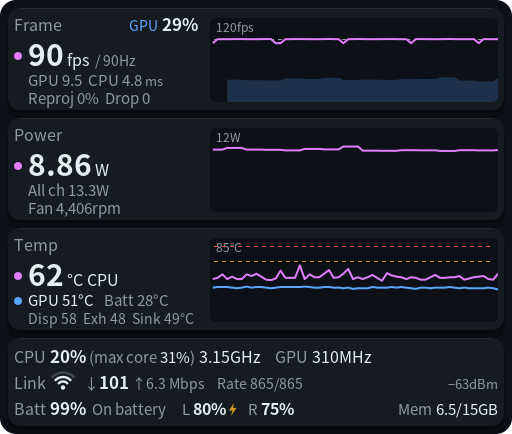
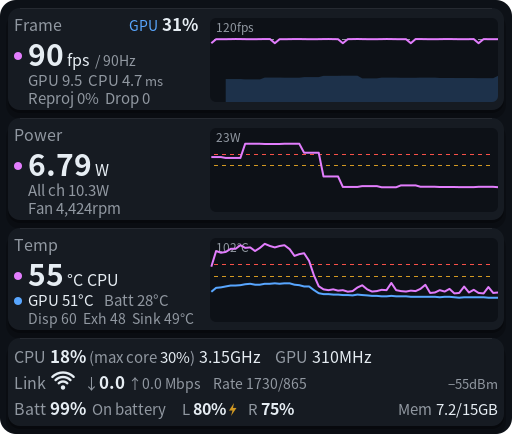
v0.2.0 のリリース準備: README・CHANGELOG・画像を今の動きに合わせる
- README（日英）の更新の説明を今の動きに合わせた: 帯は見出しの右、版は数字だけ、各状態の見え方、
  確かめるタイミング（起動時と 24 時間に 1 回まで・失敗時は 1 時間後）、update_check で止まるのは自動確認だけ、
  SHA256SUMS で照らし合わせること（署名ではないこと）、失敗しても今の版のまま、別ユニット
  frame-perf-overlay-update とログの場所、入るものは install.sh と同じ、v0.1.0 からは一度手で上げること
- インストールで入るもの（frame-update.sh・install-args）、--uninstall で残るもの、プライバシー・免責事項の
  「書き込むもの」を今のコードに合わせた
- README の画像（性能パネル・警告の色・設定パネル、日英）を今の見た目で撮り直した
- CHANGELOG の 0.2.0 に日付を入れ、全体を見直した（更新の仕組み・向き・設定パネル・Wi-Fi・修正）
- install.sh: ロックファイルの PID のプロセスがもういないと途中で止まっていたのを直した
  （--uninstall がいつも何も消せていなかった）。--uninstall で frame-update.sh も消す

diff --git a/CHANGELOG.md b/CHANGELOG.md
@@ -1,29 +1,47 @@
 # 変更履歴
 
-## 0.2.0
+## 0.2.0 — 2026-09-27
 
-### 更新
+### 更新の仕組み（新しく足した）
 
-- ダッシュボードの見出しの行（見出しとパネルの状態の間）に、新しい版の確認の帯を足した。今の版をいつも表示し（例:「最新版です（0.2.0）」）、［確認］でキャッシュを無視してその場で GitHub に確かめに行く（`update_check` の設定が off でも押せる）。新しい版があれば［更新］が出て、「0.2.1 に更新しますか？」の確認を 1 回はさんでからインストールする。進み具合（ダウンロード中・確認中・展開中・入れ替え中）と、失敗したときの理由・やり直しもここに出す
-- 帯の見た目は Steam Frame 用アプリ共通の見本に合わせた: 新しい版があるとき・確認のときはピンクの枠と太字の文言（新しい版はピンクの文字）で、［更新する］は強調ボタン（ピンクの塗り）。並びは［今すぐ確かめる］［更新する］。更新に失敗したときは赤い枠と太字の赤い文言。新しい版を確かめられなかったとき（オフラインなど）は、枠は普通のまま文言だけ赤。更新中は右に「ダウンロードして入れ替えます。途中でこの画面が閉じて開き直すことがあります」を小さく出す
-- 設定に `update_check`（既定 `true`）を足した。off にしても止まるのは 1 日 1 回の自動確認だけで、［確認］［更新］ボタンはそのまま使える
-- Steam Frame 用アプリ共通の更新の仕組み（非公開の frame-updater リポジトリ）を `vendor/frame-updater/` に取り込んだ。`frame-update.sh`（GitHub の最新リリースを確かめ、`SHA256SUMS` でハッシュを確かめてからインストールする POSIX sh）と、それを裏で動かす C++ の部品（`update_check.{h,cpp}`）
-- `install.sh` は `frame-update.sh` を `~/.local/share/frame-perf-overlay/` に置き、そのときのオプション（`--no-autostart` があれば）を `~/.config/frame-perf-overlay/install-args` に書き残す（次回の自動更新が同じオプションで `install.sh` を呼べるように）
+- パネルから新しい版を確かめて入れられるようにした。設定パネルの見出しの右（見出しの行の中）の帯に、今の版をいつも出す（例:「最新版です（0.2.0）」。版は v なしの数字だけ）。［今すぐ確かめる］で、キャッシュを飛ばしてその場で GitHub に確かめる
+- 新しい版があれば「新しい版 0.2.1 があります」と［今すぐ確かめる］［更新する］を出し、「0.2.1 に更新しますか？」の確認（［やめる］［更新する］）を 1 回はさんでからインストールする。進み具合（ダウンロード中・確認中・展開中・入れ替え中）、入れ終わった知らせ、失敗したときの理由と［もう一度］［閉じる］も同じ帯に出す。「入れました」は、そのプロセスが動いている間は出し続ける
+- 帯の見た目は Steam Frame 用アプリ共通の見本に合わせた: 新しい版があるとき・確認のときはピンクの枠と太字の文言（新しい版はピンクの文字）、［更新する］はピンク塗りの強調ボタン。更新に失敗したときは赤い枠と太字の赤い文言。確かめられなかったとき（オフラインなど）は枠は普通のまま文字だけ赤。更新中は右に「ダウンロードして入れ替えます。途中でこの画面が閉じて開き直すことがあります」を小さく出す。文言は共通の strings.md に合わせた（「最新版です」「もう最新版です」など）
+- 自動確認は起動時と、そのあとは 24 時間に 1 回まで GitHub に問い合わせる（前回の答えを使い回す。確かめられなかったときは 1 時間後）。設定に `update_check`（既定 `true`）を足した。`false` で止まるのは自動確認だけで、［今すぐ確かめる］［更新する］はそのまま使える
+- インストールは、リリースに添付した `SHA256SUMS` で tar.gz を照らし合わせてから展開し、そのリリースの `install.sh` を前回と同じオプションで動かす。`SHA256SUMS` が無い・合わないリリースは入れない（無いときは「ここからは入れられない版です」と案内する）。失敗しても今の版のまま動き続ける。インストールは一時的な systemd のユーザーユニット `frame-perf-overlay-update` で動くので、パネルが再起動しても続く。ログは `~/.cache/frame-perf-overlay/update.log`
+- Steam Frame 用アプリ共通の更新の仕組み（非公開の frame-updater リポジトリ、93a5f1b）を `vendor/frame-updater/` に取り込んだ。`frame-update.sh`（POSIX sh）と、それを裏で動かす C++ の部品（`update_check.{h,cpp}`）
+- `install.sh` は `frame-update.sh` を `~/.local/share/frame-perf-overlay/` に置き、そのときのオプション（`--no-autostart` があれば）を `~/.config/frame-perf-overlay/install-args` に書き残す（次の自動更新が同じオプションで `install.sh` を呼べるように）。`--uninstall` は `frame-update.sh` も消す
 - `scripts/package.sh` は最初に `vendor/frame-updater/` が手で書き換えられていないか確かめ、リリースの tar.gz に `frame-update.sh` を入れ、隣に `SHA256SUMS` を書き出す。公開に使う `gh release create` の行を最後に表示する（実行はしない）
-- `--dump-settings-png` に `--preview-update`（uptodate / checking / available / manual / confirm / installing / installed / checkfailed / installfailed）を足し、更新の帯の見た目を SteamVR なしで確認できるようにした
+- v0.1.0 には更新の仕組みが無いので、v0.1.0 から 0.2.0 へは一度だけ手で `./install.sh` する必要がある
 
-### 設定・操作
+### 向き（新しく足した）
 
-- 性能パネルを回転できるようにした。設定ファイルの `rotation`（`yaw` / `pitch` / `roll`、度）で、左右の向き・上下の傾き・画面内の回転を決める。既定は全部 0（今までと同じ、顔の正面と平行）。範囲外の値は丸め（±180 / ±90 / ±180）、知らないキーはログで知らせる。
-- ダッシュボードの「Perf」タブに「向き」のカードを足した: 左右・上下の向きと、画面内の回転（「左に回す / 右に回す」、roll。面を見て反時計回り / 時計回り）。どれも「1° ずつ / 5° ずつ」で 1 回に動く量を切り替え、その刻みの目盛りにそろえる（刻みは保存せず、起動するたびに 1°）。「自分に向ける」（位置はそのままで面を頭へ向ける。roll は今の値のまま残す）、「正面向き」（回転なし。roll も 0）。今の向きの値（左右・上下・回転）を見出しの右に出す。設定パネルは 1600×690 になった（横に長くして縦を詰めた: 見出しの行に新しい版の確認の帯を入れ、パネル・位置・向きのカードを横に 3 つ並べた。1px あたりの大きさは前と同じ）。
-- 位置のボタン（左上・右下など）を押すと、その位置で自動的に自分に向ける。微調整（上下左右・近く / 遠く）では向きを変えない。
-- 「既定に戻す」で向きも既定（回転なし）に戻す。
-- `--verbose` のとき、向きを変えるたびに、SteamVR が計算したパネルの向き（光線の当たり）と、こちらで計算した向きをログに出す。
+- 性能パネルを回転できるようにした。設定ファイルの `rotation`（`yaw` / `pitch` / `roll`、度）で、左右の向き・上下の傾き・画面内の回転を決める。既定は全部 0（今までと同じ、顔の正面と平行）。範囲外の値は丸め（±180 / ±90 / ±180）、知らないキーはログで知らせる
+- ダッシュボードの「Perf」タブに「向き」のカードを足した: 左右・上下の向きと、画面内の回転（「左に回す / 右に回す」。面を見て反時計回り / 時計回り）。「1° ずつ / 5° ずつ」で 1 回に動く量を切り替え、その刻みの目盛りにそろえる（刻みは保存せず、起動するたびに 1°）。今の向き（左右・上下・回転）を見出しの右に出す
+- 「自分に向ける」: 位置はそのままで、パネルの面を頭へ向ける（roll は今の値のまま残す）。「正面向き」: 回転なし（roll も 0）
+- 位置のボタン（左上・右下など）を押すと、その位置で自動的に自分に向ける。微調整（上下左右・近く / 遠く）では向きを変えない。「既定に戻す」で向きも既定に戻す
+- `--verbose` のとき、向きを変えるたびに、SteamVR が計算したパネルの向き（光線の当たり）と、こちらで計算した向きをログに出す
+
+### 設定パネル
+
+- 設定パネルを 1600×690 にした（前は 1200×650）。横に長くして縦を詰めた: 見出しの行に更新の帯を入れ、「パネル」「位置」「向き」のカードを横に 3 つ並べた。1px あたりの大きさは前と同じ（ダッシュボードでの幅は 3.73m）
+- 更新の帯の文言が長いとき（英語の失敗の理由など）は、小さくしすぎずに 2 行に分ける
+
+### Wi-Fi の表示
+
+- 家の Wi-Fi で Steam Link を使っている（直通回線に相手がいない）と、Wi-Fi につながっていても「未接続」と出ていたのを直した。直通回線に相手がいれば今までどおり「直通」、いなければ本体がつないでいる Wi-Fi の親機の電波・リンク速度・流量を「Wi-Fi」として出す。どちらにもつながっていないときだけ「未接続」
+- インターフェースは名前ではなく nl80211 の種類（AP / 子機）で見分ける。Wi-Fi の電波は、親機から受ける signal（OS の表示と同じ値）を使う。MAC アドレスと SSID は今までどおり読まない
+- `--print` にも「直通」「Wi-Fi」「未接続」を出す。`--fake-wifi home:-47` で見た目を確かめられる
 
 ### 修正
 
-- 家の Wi-Fi で Steam Link を使っている（直通回線に相手がいない）と、Wi-Fi につながっていても「未接続」と出ていたのを直した。直通回線に相手がいれば今までどおり「直通」、いなければ本体がつないでいる Wi-Fi の親機の電波・リンク速度・流量を「Wi-Fi」として出す。どちらにもつながっていないときだけ「未接続」。インターフェースは名前ではなく nl80211 の種類（AP / 子機）で見分ける。Wi-Fi の電波は、親機から受ける signal（OS の表示と同じ値）を使う。`--print` にも出す。`--fake-wifi home:-47` で見た目を確かめられる
-- ＋（プログラムを起動）から起動したとき、常駐中でも表示を切り替えずにロック待ちで居座ることがあったのを直した。Steam 自体が systemd のサービスなので、＋から起動した子にも `INVOCATION_ID` が引き継がれ、サービスとして起動したと勘違いしていた。自分の cgroup が `frame-perf-overlay.service` かどうかで見分けるようにした。
+- ＋（プログラムを起動）から起動したとき、常駐中でも表示を切り替えずにロック待ちで居座ることがあったのを直した。Steam 自体が systemd のサービスなので、＋から起動した子にも `INVOCATION_ID` が引き継がれ、サービスとして起動したと勘違いしていた。自分の cgroup が `frame-perf-overlay.service` かどうかで見分けるようにした
+- `install.sh` が、アプリが終わったあと（ロックファイルに残った PID のプロセスがもういないとき）に途中で止まっていたのを直した。サービスを止めてから動く `./install.sh --uninstall` は、いつもここで止まって何も消せていなかった。「アプリを終了」で止めたあとの `./install.sh` も同じだった
+
+### そのほか
+
+- `--dump-settings-png` に `--preview-update`（uptodate / checking / available / manual / confirm / installing / installed / checkfailed / installfailed）を足し、更新の帯の見た目を SteamVR なしで確認できるようにした
+- README の画像（性能パネル・警告の色・設定パネル、日英）を今の見た目で撮り直した
 
 ## 0.1.0 — 2026-09-27
 

diff --git a/README.md b/README.md
@@ -58,13 +58,14 @@ This installs:
 - the program: `~/.local/bin/frame-perf-overlay`
 - the launcher entry and icons: `~/.local/share/applications/frame-perf-overlay.desktop`, `~/.local/share/icons/hicolor/{48x48,128x128,256x256}/apps/frame-perf-overlay.png`
 - a systemd user service that starts together with SteamVR: `~/.config/systemd/user/frame-perf-overlay.service`
+- the updater script used by the **Update** button: `~/.local/share/frame-perf-overlay/frame-update.sh`, and the options you installed with, for the next update: `~/.config/frame-perf-overlay/install-args` (see [Updates](#updates))
 
-If SteamVR is running, the panel appears right away. SteamOS updates don't remove these files. To update, run `./install.sh` from the new version's folder.
+If SteamVR is running, the panel appears right away. SteamOS updates don't remove these files. New versions can be installed from the bar in the Perf tab (see [Updates](#updates)); to update by hand, run `./install.sh` from the new version's folder.
 
 Options:
 
 - `./install.sh --no-autostart` installs without the service being enabled. Start it yourself from the dashboard's **+** button (see below).
-- `./install.sh --uninstall` stops it and removes everything above. Your settings in `~/.config/frame-perf-overlay/` are kept; delete that folder too if you want them gone.
+- `./install.sh --uninstall` stops it and removes everything above except the folder `~/.config/frame-perf-overlay/` (your settings and `install-args`). Delete that folder too if you want them gone, and `~/.cache/frame-perf-overlay/` (the updater's cache and log) if it exists.
 
 ## Usage
 
@@ -91,7 +92,12 @@ Options:
   | Quit app | Click twice within 3 seconds to quit |
 
   Changes apply immediately and are saved to the settings file.
-- **Updates**: a bar in the title row (between the title and the panel status) always shows the running version, e.g. `Up to date (0.2.0)`, with a **Check now** button that asks GitHub right away (it works even with automatic checking off). Automatic checking runs once at start and at most once a day. When a newer release exists it changes to `Version 0.2.1 is available` with an **Update** button; clicking it asks "Update to 0.2.1?" once, and **Update** in that confirmation starts the install (**Cancel** backs out). Progress ("Downloading…", "Verifying…", …) is shown in the same bar; the panel may briefly disappear and reappear while it restarts on the new version. If it fails, the bar shows the reason and **Try again** / **Close**. Releases without a `SHA256SUMS` file can't be installed this way; the bar says so and points at the release page instead.
+- **Updates**: a bar in the title row, right of the title, always shows the running version, e.g. `Up to date (0.2.0)`, with a **Check now** button that asks GitHub right away (it works even with the automatic check turned off). What the bar shows:
+  - **New version**: a pink border, `Version 0.2.1 is available`, **Check now** and **Update**. **Update** asks `Update to 0.2.1?` with **Cancel** / **Update**; the second **Update** starts the install.
+  - **Updating**: the step (`Updating: Downloading`, …) and, on the right, a small grey note that the panel may close and reopen meanwhile. It does, once, when the new version starts.
+  - **Update failed**: a red border, the reason, **Try again** and **Close**. The version you had keeps running.
+  - **Couldn't check** (no network, GitHub unreachable, …): the border stays normal and only the text turns red, with **Check now**.
+  - **Can't install from here** (the release has no `SHA256SUMS`): a pink border and a note to update by hand from GitHub (see [Install](#install)).
 - **The + button** ("launch a program") in the dashboard lists **Frame Perf Overlay**. If it isn't running, this starts it. If it is already running, launching it again toggles the panel between shown and hidden.
 - **Quitting**: hover over the **Perf** icon at the bottom of the dashboard and press its close button, or use **Quit app** in the settings. It shuts down cleanly and stays off until the next SteamVR start (or until you start it from **+** or with `systemctl --user start frame-perf-overlay`).
 
@@ -104,7 +110,7 @@ A file with every key at its default value is in [`contrib/config.example.json`]
 | Key | Default | Meaning |
 |---|---|---|
 | `visible` | `true` | `false` hides the panel (and stops reading and drawing) |
-| `update_check` | `true` | `false` turns off the automatic daily check for a new release. The **Check now** button in the Perf tab still works either way |
+| `update_check` | `true` | `false` turns off the automatic checks for a new release (at start and daily). The **Check now** button in the Perf tab still works either way |
 | `language` | your Steam language | `"en"` (English) or `"ja"` (Japanese) |
 | `position.x` / `.y` / `.z` | `-0.15` / `-0.12` / `-0.5` | Panel center relative to your head, in meters. +x is right, +y is up, −z is forward |
 | `rotation.yaw` / `.pitch` / `.roll` | `0` / `0` / `0` | Panel rotation in degrees. `yaw` turns the face left/right (positive = toward +x, −180 to 180), `pitch` tilts it up/down (positive = up, −90 to 90), `roll` spins it in its own plane (positive = counterclockwise as you look at it, −180 to 180). Applied in the order yaw → pitch → roll. All 0 keeps the panel parallel to your face. "Face me" and the corner buttons set yaw and pitch and keep roll as it is |
@@ -141,7 +147,14 @@ The **Autostart** switch in the dashboard runs the same `enable` / `disable` (wi
 
 ## Updates
 
-`install.sh` puts a small updater script at `~/.local/share/frame-perf-overlay/frame-update.sh`; the panel runs it in the background to ask GitHub's API for the latest release and, once you confirm, to download and install it. It downloads only from github.com / api.github.com / \*.githubusercontent.com over HTTPS, verifies the tar.gz against the release's `SHA256SUMS` file before extracting it, and refuses to install if that file is missing (the bar then points at the release page for a manual update instead). The install runs as a separate systemd unit (`frame-perf-overlay-update`) so it keeps going even though it restarts the panel; its log is `~/.cache/frame-perf-overlay/update.log`. Turning `update_check` off (see [Settings file](#settings-file)) only stops the once-a-day background check — the **Check now** and **Update** buttons keep working.
+`install.sh` puts a small updater script at `~/.local/share/frame-perf-overlay/frame-update.sh`. The panel runs it in the background.
+
+- **When it checks**: at start and then every hour it asks the script, but the script asks GitHub at most once every 24 hours and reuses the last answer in between (after a failed check it tries again after an hour). **Check now** skips that cache. Setting `update_check` to `false` in the [settings file](#settings-file) stops the automatic checks (including the one at start); **Check now** and **Update** keep working.
+- **What it installs**: only after you confirm, it downloads the release's tar.gz and `SHA256SUMS` (from github.com / api.github.com / \*.githubusercontent.com over HTTPS), checks the tar.gz's SHA-256 against `SHA256SUMS` before extracting it, and refuses a release whose `SHA256SUMS` is missing or doesn't match. Then it runs that release's own `install.sh` with the options you used last time (kept in `~/.config/frame-perf-overlay/install-args`), so it installs exactly what running `./install.sh` by hand would.
+- **Where it runs**: the install runs as a separate, temporary systemd user unit, `frame-perf-overlay-update`, so it keeps going while `install.sh` restarts the panel. Its log is `~/.cache/frame-perf-overlay/update.log` (and `journalctl --user -u frame-perf-overlay-update`).
+- **If it fails**: the version you had stays installed and keeps running; the bar shows the reason.
+- **What the check protects against**: `SHA256SUMS` sits in the same GitHub release, so it catches a broken or truncated download, but not a release that was itself replaced — it is a checksum, not a signature.
+- **From v0.1.0**: v0.1.0 has no updater, so update to 0.2.0 by hand once (download it and run `./install.sh` from its folder, as in [Install](#install)). After that the panel can update itself.
 
 ## Troubleshooting
 
@@ -185,7 +198,7 @@ Some values were checked against another source on a Steam Frame; others are est
 
 ## Privacy
 
-- The app itself has no telemetry. The **only** outside network access is the update check: it asks `api.github.com` for the latest release (once at start, at most once a day while `update_check` is on, or right away when you press **Check now**), and, only after you confirm an install, downloads the release's tar.gz and `SHA256SUMS` from `github.com` / `*.githubusercontent.com` over HTTPS. Nothing else is sent; GitHub sees the usual anonymous HTTP request (your headset's IP, `curl`'s user agent). (For the Wi-Fi status shown in the panel it only asks the headset's own kernel — that never leaves the headset.)
+- The app itself has no telemetry. The **only** outside network access is the update check: it asks `api.github.com` for the latest release (while `update_check` is on: at start and then at most once every 24 hours — an hour after a failed check — or right away when you press **Check now**), and, only after you confirm an install, downloads the release's tar.gz and `SHA256SUMS` from `github.com` / `*.githubusercontent.com` over HTTPS. Nothing else is sent; GitHub sees the usual anonymous HTTP request (your headset's IP, `curl`'s user agent). (For the Wi-Fi status shown in the panel it only asks the headset's own kernel — that never leaves the headset.)
 - For the Steam Link direct link, and for the Wi-Fi access point the headset is joined to, it reads only the signal strength, link rates and byte counters, from the headset's own Wi-Fi driver. It doesn't extract, show or log any MAC address (PC, access point or headset) or the network name (SSID) of your Wi-Fi.
 - Files it writes: its own settings file (a temporary `config.json.tmp` next to it, renamed into place); a small lock file in `/run/user/<uid>` (memory only; `/tmp` if that folder doesn't exist) holding the app's process ID; and, only when checking or installing updates, the update helper's own cache files under `~/.cache/frame-perf-overlay/` (the last check's answer, install progress/log — see [Updates](#updates)).
 - Logs stay on the headset in the systemd journal.
@@ -197,7 +210,7 @@ Some values were checked against another source on a Steam Frame; others are est
 - It was made with an AI assistant (Claude) and tested on the author's own Steam Frame. It may not behave the same on yours.
 - What it does on your headset:
   - It only **reads** from sysfs and `/proc` (sensors, CPU, memory, and the GPU time the kernel reports for your own processes). It never writes there, and it doesn't touch fans, clocks, power settings or cameras. To pick the default language it also reads the `language` line of Steam's `~/.steam/registry.vdf` once at startup (read only).
-  - It writes only: its own settings file; the files `install.sh` puts under `~/.local` and the service file under `~/.config/systemd/user`; the update helper's cache files under `~/.cache/frame-perf-overlay/` (see [Privacy](#privacy)); and, when you use the **Autostart** switch, `systemctl --user enable` / `disable` for its own service.
+  - It writes only: its own settings file; the files `install.sh` puts under `~/.local`, the service file under `~/.config/systemd/user` and `~/.config/frame-perf-overlay/install-args`; the update helper's cache files under `~/.cache/frame-perf-overlay/` (see [Privacy](#privacy)); when you use the **Autostart** switch, `systemctl --user enable` / `disable` for its own service; and, when you confirm an update, a temporary systemd user unit (`frame-perf-overlay-update`, started with `systemd-run --user`) that runs the new release's `install.sh`.
   - Its only outside network access is the GitHub update check described in [Privacy](#privacy) — nothing else it does talks to any server, on or off the headset.
   - It doesn't change any Steam or SteamVR files or settings. It is an ordinary OpenVR overlay and uses only the public OpenVR API.
 - The app doesn't modify or inject into Steam or SteamVR; it works like any other SteamVR overlay app and reads information that Linux gives to normal users. The [Steam Subscriber Agreement](https://store.steampowered.com/subscriber_agreement/) still applies to how you use Steam, so if you have doubts, read it and decide for yourself.
